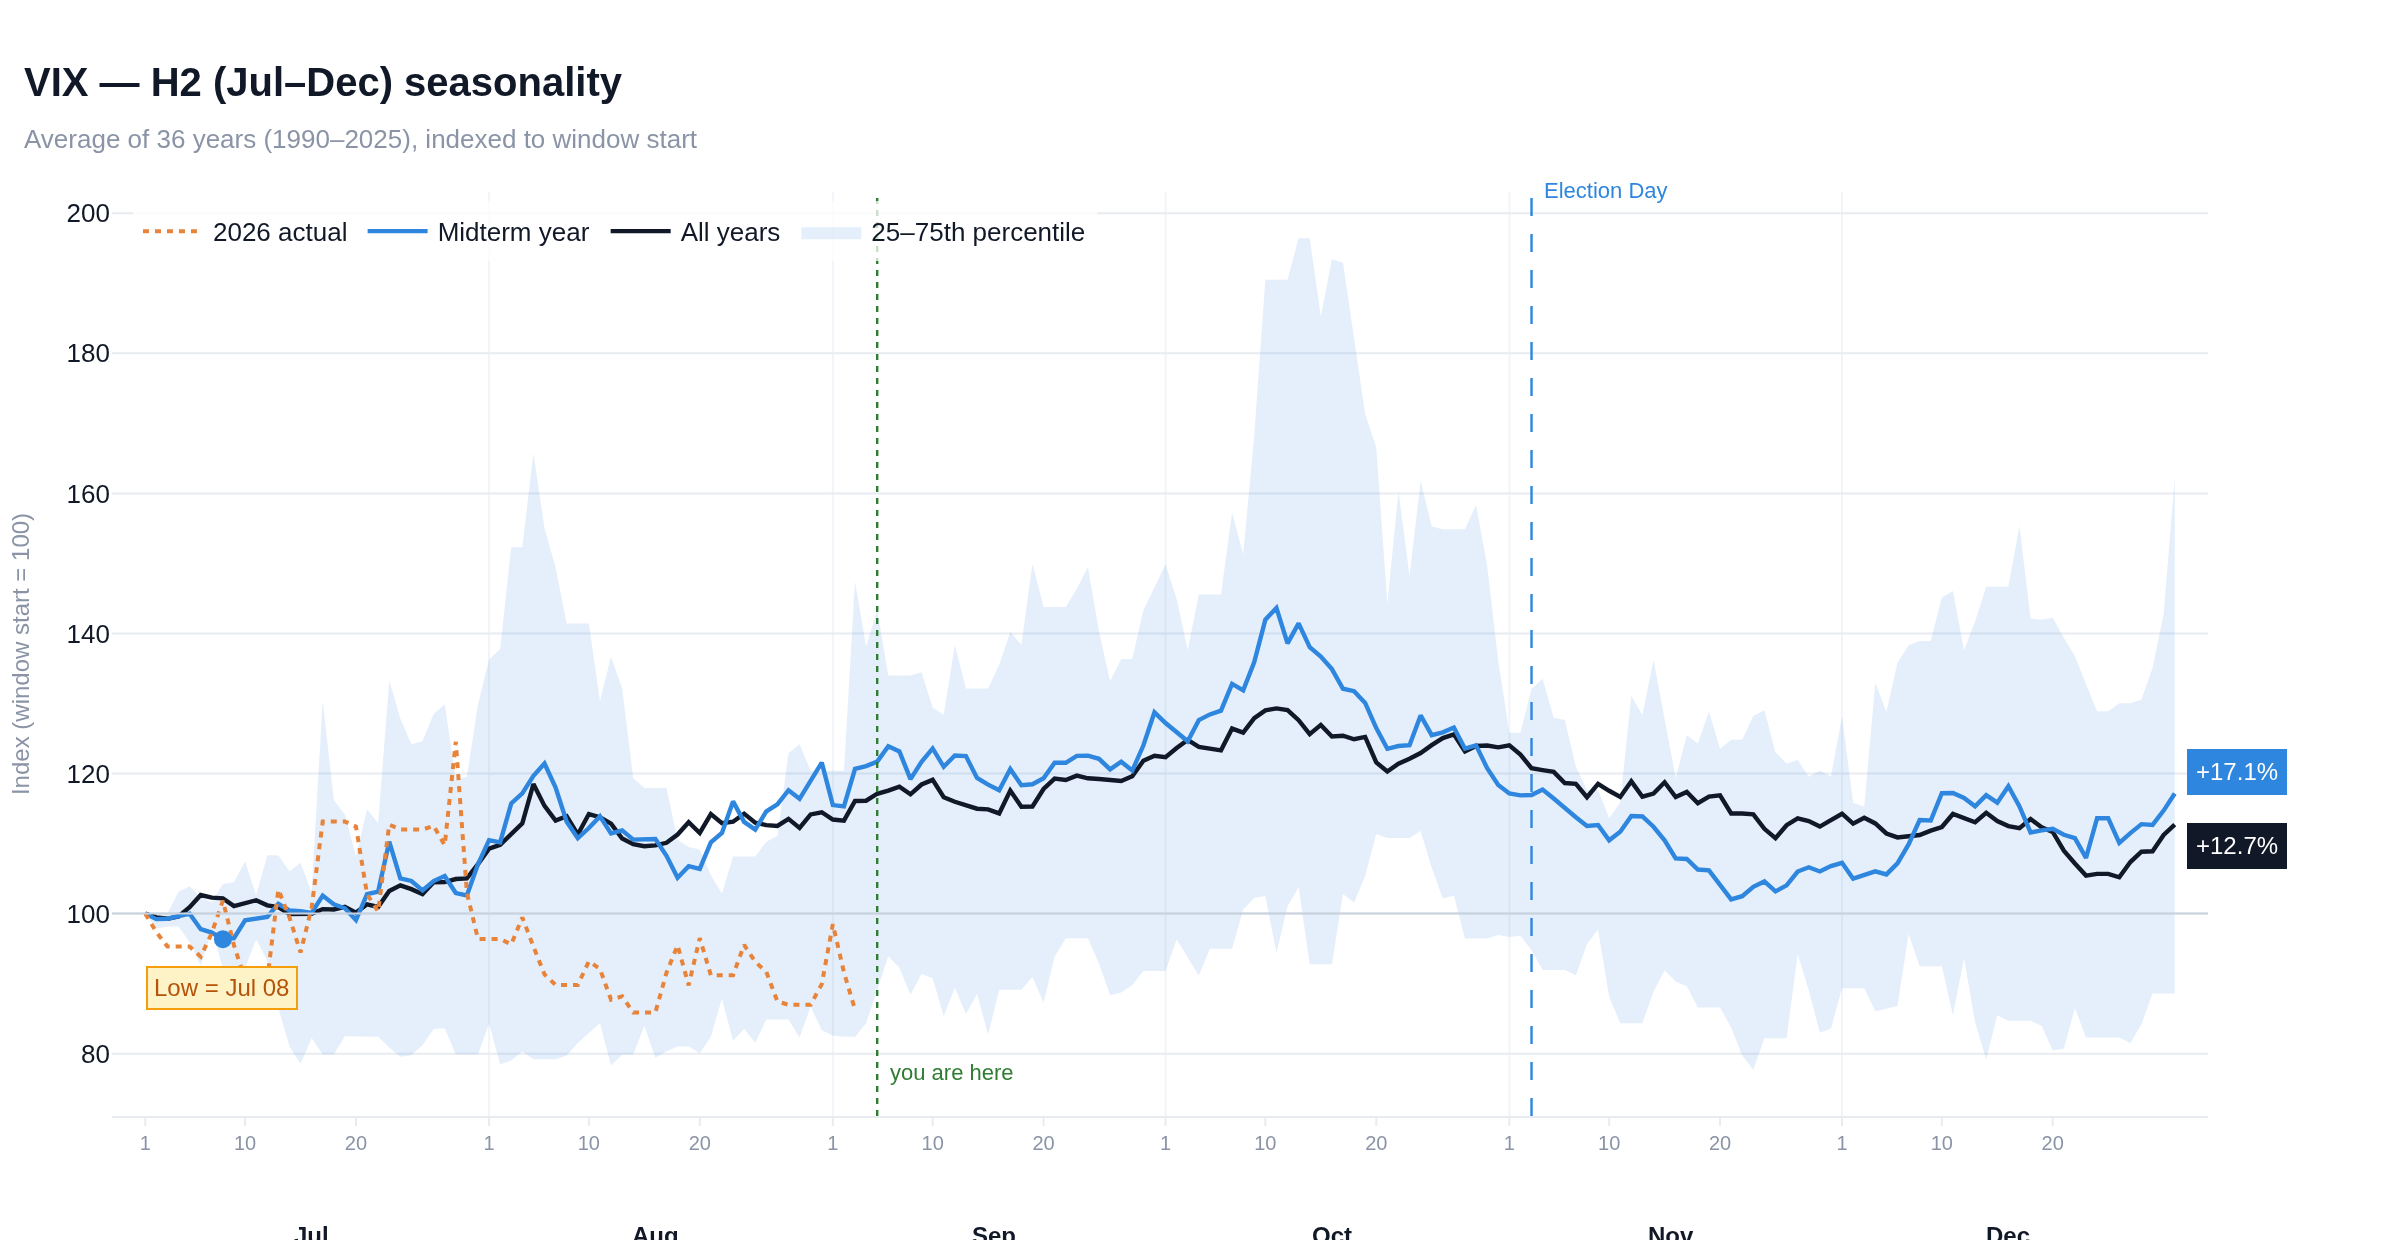
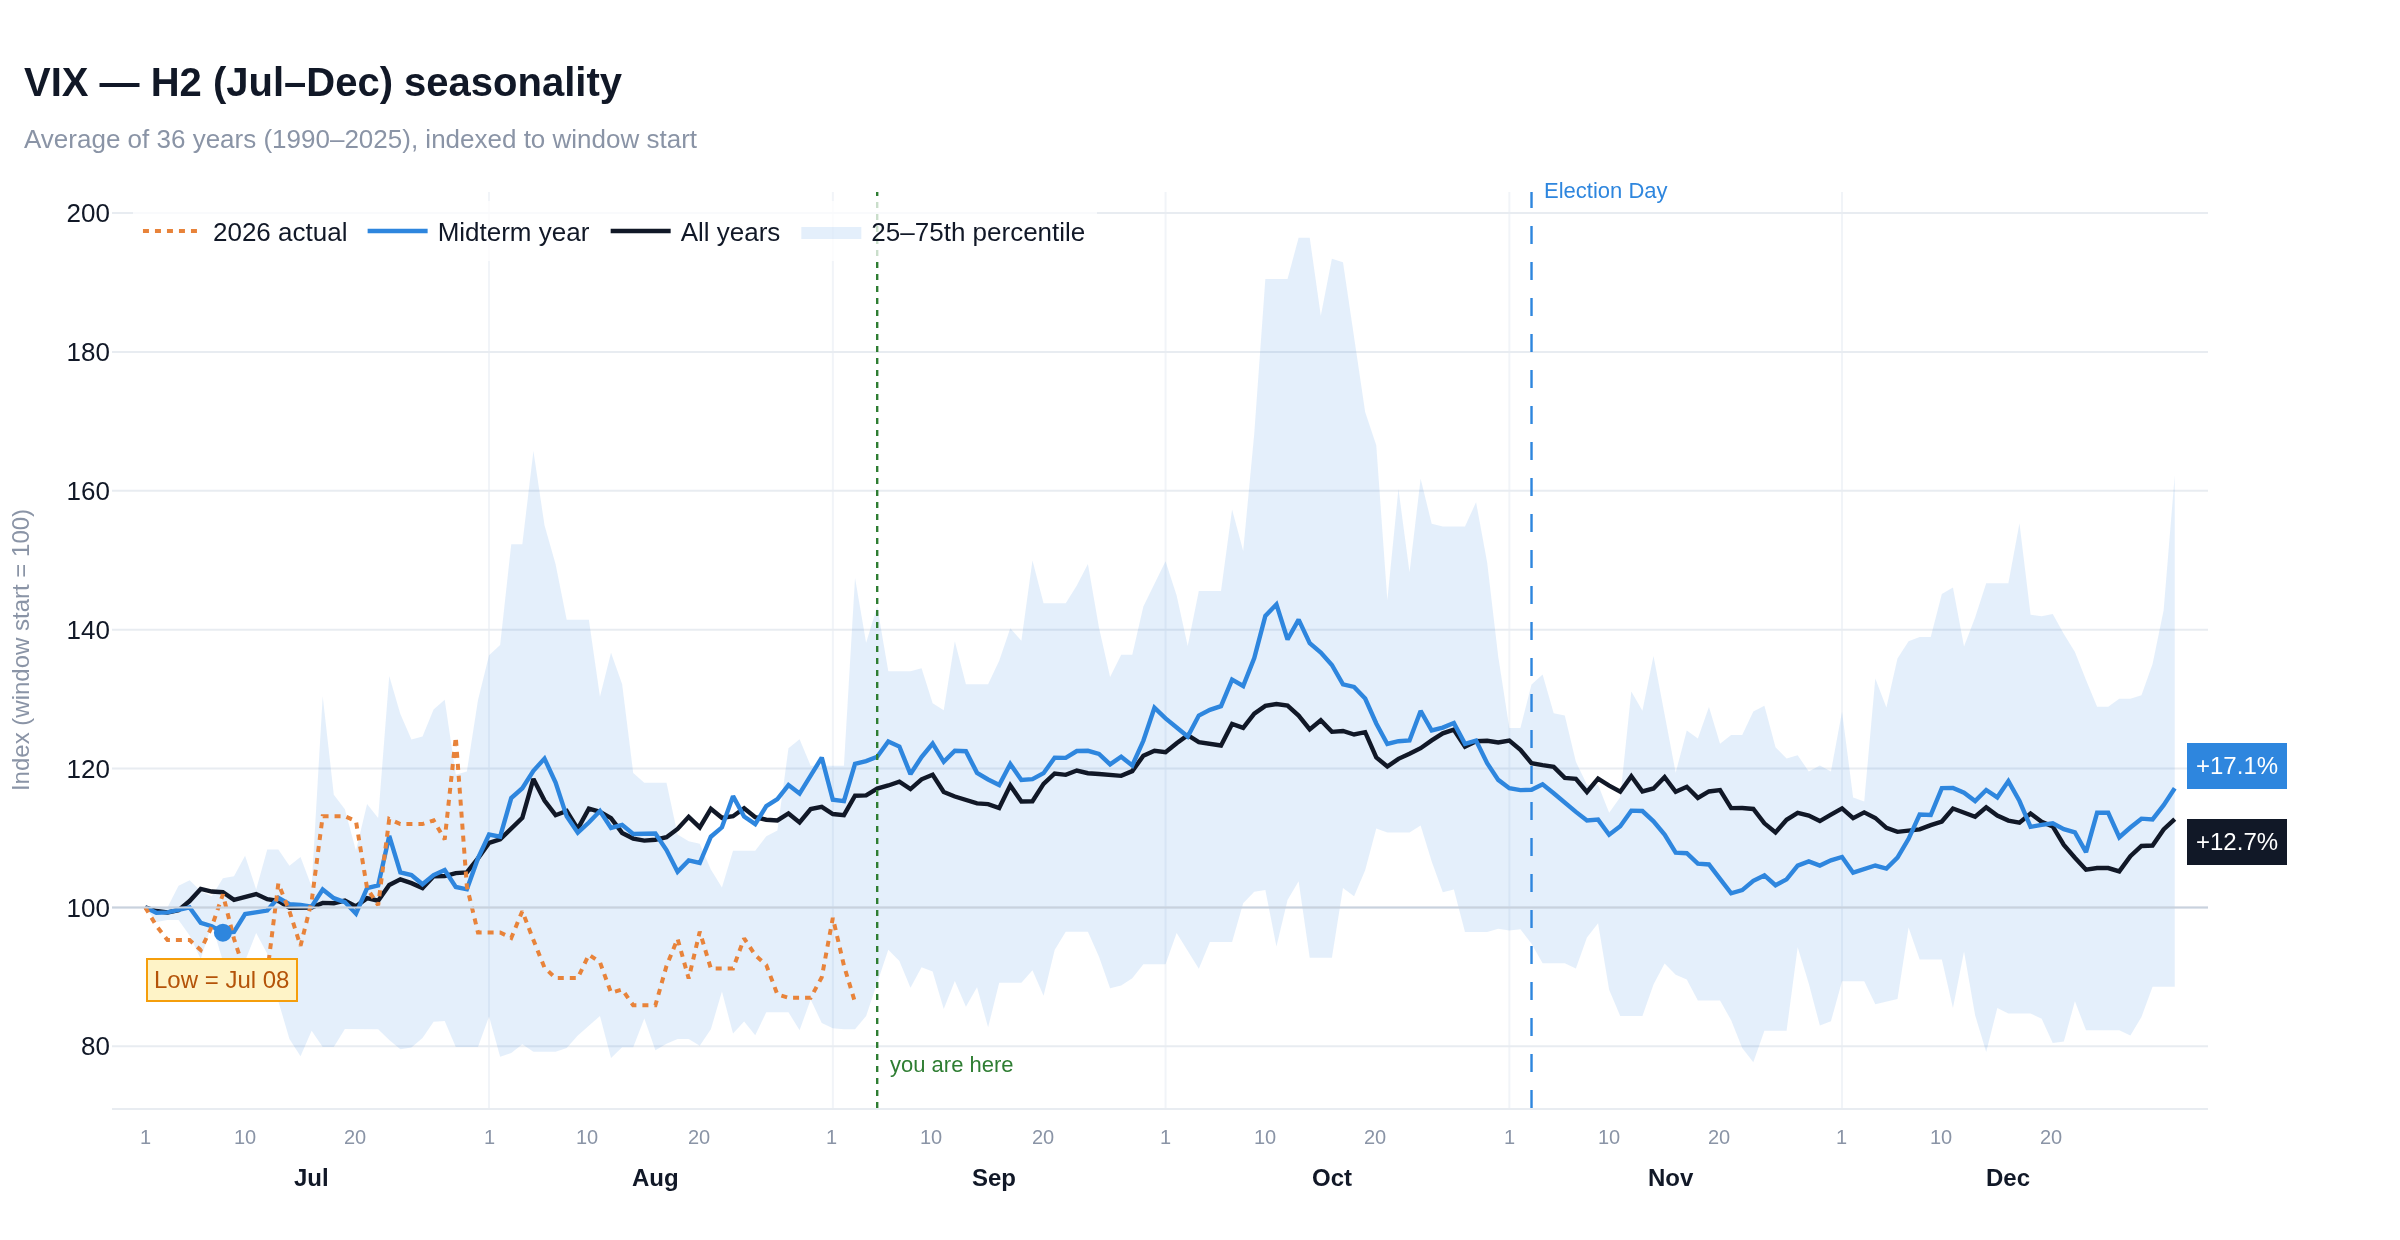
Fix x-axis labels: draw day/month rows as annotations, add hide-all-years option
Array tickmode made plotly's unified hover print 'undefined' and paper-fraction
offsets clipped the month row; both rows are now pixel-pinned annotations.

Claude-Session: https://claude.ai/code/session_01WduHV8rG2zNZddsmHcrWAU

diff --git a/seasonality/chart.py b/seasonality/chart.py
@@ -46,6 +46,7 @@ def build_figure(
     title: str | None = None,
     subtitle: str | None = None,
     show_individual_years: bool = False,
+    show_all_years: bool = True,
     show_election_day: bool = True,
     show_today: bool = True,
     today: dt.date | None = None,
@@ -54,6 +55,8 @@ def build_figure(
 ) -> go.Figure:
     cal = res.calendar
     today = today or dt.date.today()
+    # hiding the all-years line only makes sense when something else is drawn
+    show_all_years = show_all_years or res.composite_filtered is None
     fig = go.Figure()
 
     if show_individual_years:
@@ -82,13 +85,14 @@ def build_figure(
             )
         )
 
-    fig.add_trace(
-        go.Scatter(
-            x=cal, y=res.composite_all, mode="lines", name="All years",
-            line=dict(color=INK, width=2.2),
-            hovertemplate="%{x|%b %d} · All years: %{y:.2f}<extra></extra>",
+    if show_all_years:
+        fig.add_trace(
+            go.Scatter(
+                x=cal, y=res.composite_all, mode="lines", name="All years",
+                line=dict(color=INK, width=2.2),
+                hovertemplate="%{x|%b %d} · All years: %{y:.2f}<extra></extra>",
+            )
         )
-    )
 
     if res.composite_filtered is not None:
         fig.add_trace(
@@ -123,17 +127,18 @@ def build_figure(
         return float(s.iloc[-1])
 
     # nudge the two end labels apart when the composites finish close together
-    ends = [res.composite_all, res.composite_filtered]
+    all_series = res.composite_all if show_all_years else None
+    ends = [all_series, res.composite_filtered]
     finals = [s.dropna().iloc[-1] for s in ends if s is not None and not s.dropna().empty]
     y_span = max(1e-9, float(res.matrix_all.max().max() - res.matrix_all.min().min()))
     crowded = len(finals) == 2 and abs(finals[0] - finals[1]) < 0.06 * y_span
     shift = 11 if crowded else 0
     if crowded:
         all_first = finals[0] >= finals[1]
-        end_label(res.composite_all, INK, shift if all_first else -shift)
+        end_label(all_series, INK, shift if all_first else -shift)
         end_label(res.composite_filtered, ACCENT, -shift if all_first else shift)
     else:
-        end_label(res.composite_all, INK)
+        end_label(all_series, INK)
         end_label(res.composite_filtered, ACCENT)
 
     highlight = res.composite_filtered if res.composite_filtered is not None else res.composite_all
@@ -231,43 +236,47 @@ def _day_ticks_for(cal: pd.DatetimeIndex) -> list[int] | None:
 
 
 def _apply_month_axis(fig: go.Figure, cal: pd.DatetimeIndex, day_ticks: bool = True) -> None:
-    """Two-tier x-axis: day-of-month ticks with month names on a row beneath.
+    """Two-tier x-axis: day-of-month numbers with month names on a row beneath.
 
-    Month names sit under the axis as paper-referenced annotations, centred on
-    each month, so they stay readable whatever the tick density.
+    Both rows are drawn as annotations pinned to the bottom of the plot area with
+    pixel offsets, and the axis itself keeps its native date ticks turned off.
+    Using annotations rather than ``tickmode="array"`` matters: array ticks make
+    plotly's unified hover label lose the date and print "undefined", and paper
+    fractions drift with figure height, which clipped the month row.
     """
     spans = month_spans(cal)
     days = _day_ticks_for(cal) if day_ticks else None
 
+    # native tick labels off — the two annotation rows below replace them
+    fig.update_xaxes(tickmode="auto", showticklabels=False, ticks="", ticklen=0)
+
     if days:
-        tickvals, ticktext = [], []
         for first, last, _ in spans:
+            month_start = pd.Timestamp(year=first.year, month=first.month, day=1)
             for day in days:
-                d = pd.Timestamp(year=first.year, month=first.month, day=1) + pd.Timedelta(days=day - 1)
+                d = month_start + pd.Timedelta(days=day - 1)
                 if d.month == first.month and first <= d <= last:
-                    tickvals.append(d)
-                    ticktext.append(str(day))
-        fig.update_xaxes(
-            tickmode="array", tickvals=tickvals, ticktext=ticktext, tickangle=0,
-            tickfont=dict(size=10, color=MUTED), ticklen=4,
-        )
-        month_row_y, bottom_margin = -0.11, 62
+                    fig.add_annotation(
+                        x=d, y=0, xref="x", yref="paper", yanchor="top", yshift=-7,
+                        text=str(day), showarrow=False,
+                        font=dict(size=10, color=MUTED),
+                    )
+        month_yshift, bottom_margin = -26, 66
     else:
-        fig.update_xaxes(tickmode="array", tickvals=[], ticktext=[], ticklen=0)
-        month_row_y, bottom_margin = -0.04, 44
+        month_yshift, bottom_margin = -7, 44
+
+    for _, _, mid in spans:
+        fig.add_annotation(
+            x=mid, y=0, xref="x", yref="paper", yanchor="top", yshift=month_yshift,
+            text=f"<b>{mid.strftime('%b')}</b>", showarrow=False,
+            font=dict(size=12, color=INK),
+        )
 
     # a light separator between months
     for first, _, _ in spans[1:]:
         fig.add_shape(
             type="line", xref="x", yref="paper", x0=first, x1=first, y0=0, y1=1,
             line=dict(color="#F1F4F8", width=1), layer="below",
-        )
-
-    for _, _, mid in spans:
-        fig.add_annotation(
-            x=mid, y=month_row_y, xref="x", yref="paper", yanchor="top",
-            text=f"<b>{mid.strftime('%b')}</b>", showarrow=False,
-            font=dict(size=12, color=INK),
         )
 
     fig.update_layout(margin=dict(b=bottom_margin))

diff --git a/tests/test_engine.py b/tests/test_engine.py
@@ -130,8 +130,20 @@ def test_figure_has_month_labels():
     labels = [a.text for a in fig.layout.annotations]
     for month in ("Jul", "Aug", "Sep", "Oct", "Nov", "Dec"):
         assert f"<b>{month}</b>" in labels
-    # day-of-month ticks present and not year-stamped
-    assert set(fig.layout.xaxis.ticktext) == {"1", "10", "20"}
+    # day-of-month numbers are drawn as their own row
+    assert {"1", "10", "20"}.issubset(set(labels))
+
+    # array ticks are what made plotly's unified hover print "undefined",
+    # and native tick labels would duplicate the annotation rows
+    assert fig.layout.xaxis.tickmode != "array"
+    assert fig.layout.xaxis.showticklabels is False
+    assert fig.layout.xaxis.hoverformat == "%b %d"
+
+    # month names only on a 12-month window
+    year_fig = build_figure(compute_seasonality(close, "TEST", 1, 12))
+    year_labels = [a.text for a in year_fig.layout.annotations]
+    assert "<b>Mar</b>" in year_labels
+    assert "15" not in year_labels
 
 
 def test_monthly_returns_table_shape():
@@ -139,3 +151,28 @@ def test_monthly_returns_table_shape():
     t = monthly_returns_table(close, 2011, 2020)
     assert t.shape == (10, 12)
     assert list(t.columns)[:3] == ["Jan", "Feb", "Mar"]
+
+
+def test_all_years_line_can_be_hidden():
+    from seasonality.chart import build_figure
+
+    close = synthetic_close()
+    res = compute_seasonality(close, "TEST", 7, 6, phases=["Midterm year"])
+
+    hidden = build_figure(res, show_all_years=False)
+    names = [t.name for t in hidden.data if t.name]
+    assert "All years" not in names
+    assert "Midterm year" in names
+    assert "+" in " ".join(a.text for a in hidden.layout.annotations)  # end label still drawn
+
+    shown = build_figure(res, show_all_years=True)
+    assert "All years" in [t.name for t in shown.data if t.name]
+
+
+def test_all_years_line_survives_without_a_filter():
+    """With nothing else to plot, hiding the all-years line is ignored."""
+    from seasonality.chart import build_figure
+
+    res = compute_seasonality(synthetic_close(), "TEST", 7, 6, phases=None)
+    fig = build_figure(res, show_all_years=False)
+    assert "All years" in [t.name for t in fig.data if t.name]

diff --git a/export_chart.py b/export_chart.py
@@ -38,6 +38,8 @@ def parse_args(argv=None):
     p.add_argument("--band", default="25,75", help="percentile band, or 'none'")
     p.add_argument("--median", action="store_true", help="use median instead of mean")
     p.add_argument("--no-current", action="store_true", help="hide the live-year path")
+    p.add_argument("--only-filtered", action="store_true",
+                   help="hide the all-years line and chart only the --phase years")
     p.add_argument("--no-day-ticks", action="store_true",
                    help="month names only on the x-axis (no day-of-month ticks)")
     p.add_argument("--refresh", action="store_true", help="force a fresh download")
@@ -76,6 +78,7 @@ def main(argv=None) -> int:
                   f"({min(res.stats_all.years)}–{max(res.stats_all.years)}), indexed to window start"),
         today=dt.date.today(),
         day_ticks=not a.no_day_ticks,
+        show_all_years=not a.only_filtered,
     )
 
     if a.out.lower().endswith(".png"):

diff --git a/app.py b/app.py
@@ -97,6 +97,10 @@ if use_filter:
         "Include years that are", list(CYCLE_PHASES.keys()), default=["Midterm year"]
     ) or None
 
+show_all_years = st.sidebar.checkbox(
+    "Show all-years line", value=True,
+    help="Turn off to chart only the filtered years (needs a cycle filter selected).",
+)
 show_current = st.sidebar.checkbox(f"Overlay {last_year} (current path)", value=True)
 show_band = st.sidebar.checkbox("Percentile band", value=True)
 band = None
@@ -165,6 +169,7 @@ else:
 fig = chart_lib.build_figure(
     res,
     show_individual_years=show_years,
+    show_all_years=show_all_years,
     show_election_day=show_election,
     show_today=show_today,
     today=today,

diff --git a/README.md b/README.md
@@ -39,6 +39,10 @@ Feb 29 is dropped so leap years line up with everything else. The plotted lines 
 | **Current year** (orange dotted) | The live year's actual path, stopping at the last real close |
 | Faint grey lines | Optional: every individual year behind the composite |
 
+Uncheck **Show all-years line** in the sidebar to chart the filtered years on their
+own (`--only-filtered` on the CLI). With no cycle filter selected the all-years
+line stays, since it would otherwise leave an empty chart.
+
 Markers: the seasonal low of the highlighted composite, US Election Day (first
 Tuesday after the first Monday in November), and a "you are here" line at today's
 date.
@@ -121,4 +125,3 @@ progress) are excluded from the composites — the live year is drawn separately
 Seasonal averages describe past tendencies with wide dispersion around them; the
 percentile band and per-year table are there to make that dispersion visible. Not
 investment advice.
-# Stocks-Seasonality-Tool
